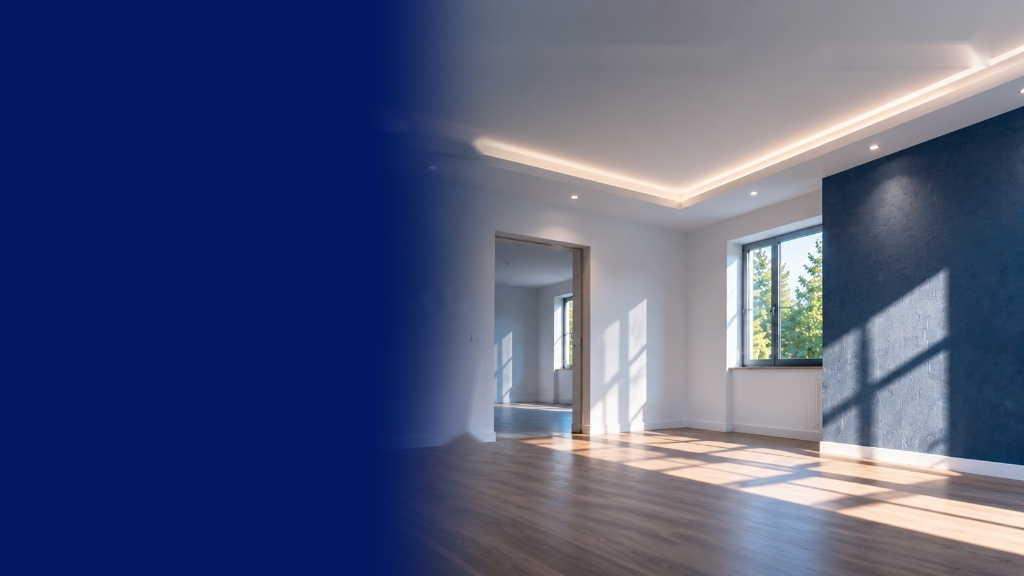
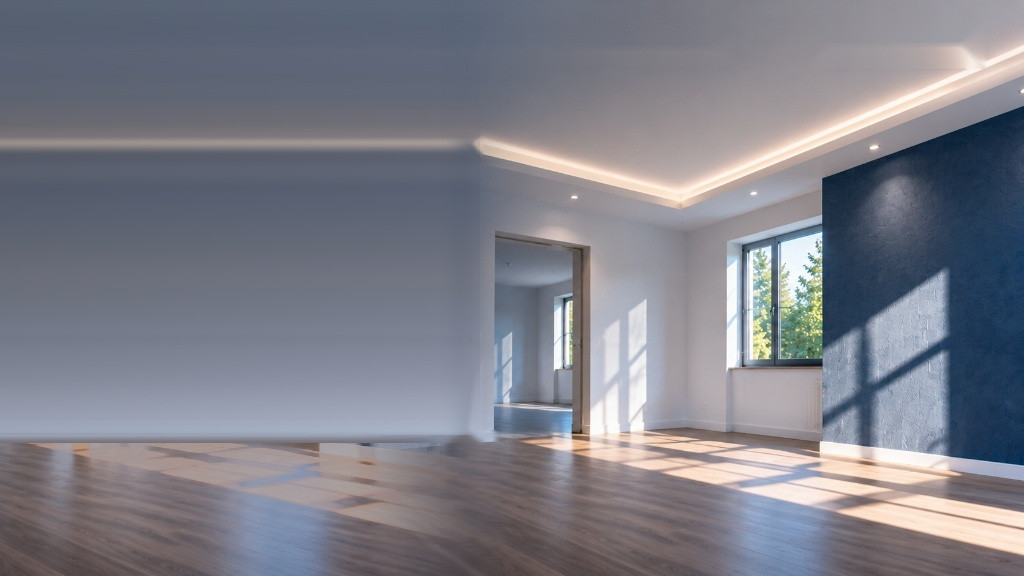
fix(design): remove red corner from footer, extend full gallery hero bg, and embed interactive Google Maps on contact page

diff --git a/src/components/ContactSection.tsx b/src/components/ContactSection.tsx
@@ -79,16 +79,6 @@ export const ContactSection: React.FC = () => {
               aria-hidden="true"
             />
 
-            {/* Bottom-Right Red Corner Slice */}
-            <div
-              className="absolute bottom-0 right-0 w-24 h-24 pointer-events-none select-none"
-              aria-hidden="true"
-            >
-              <svg viewBox="0 0 100 100" className="w-full h-full">
-                <polygon points="100,0 100,100 0,100" fill="#DE1110" />
-              </svg>
-            </div>
-
             {/* Contact Items List */}
             <div className="space-y-6 sm:space-y-7 relative z-10 my-auto">
               {/* Item 1: Adresse */}
@@ -351,7 +341,7 @@ export const ContactSection: React.FC = () => {
                     <span className="text-xs text-slate-600 leading-snug">
                       Ich habe die{' '}
                       <a
-                        href="#datenschutz"
+                        href="/datenschutz"
                         className="text-[#DE1110] font-semibold hover:underline"
                         onClick={(e) => e.stopPropagation()}
                       >
@@ -377,23 +367,27 @@ export const ContactSection: React.FC = () => {
         </div>
 
         {/* ================= BOTTOM MAP CARD ================= */}
-        <div className="relative w-full rounded-[24px] overflow-hidden border border-slate-200/90 shadow-sm bg-[#E8ECEF] h-[260px] sm:h-[300px] lg:h-[340px]">
-          {/* Crisp Berlin Map Background Image with original location marker */}
-          <img
-            src="/contact_map_exact_2x.png"
-            alt="Paveltus Berlin Standort Karte"
-            className="absolute inset-0 w-full h-full object-cover object-center pointer-events-none select-none"
+        <div className="relative w-full rounded-[24px] overflow-hidden border border-slate-200/90 shadow-sm bg-[#E8ECEF] h-[320px] sm:h-[380px] lg:h-[420px] group">
+          {/* Real Interactive Google Maps Embed with Paveltus Berlin Address */}
+          <iframe
+            title="Paveltus GmbH Standort Berlin Google Maps"
+            src="https://maps.google.com/maps?q=Wollankstra%C3%9Fe%20126%20a-b%2C%2013187%20Berlin&z=15&hl=de&t=m&output=embed&iwloc=near"
+            className="w-full h-full border-0"
             loading="lazy"
+            allowFullScreen
           />
 
-          {/* Interactive Floating Link matching exact badge location */}
+          {/* Quick Route Planning Overlay Badge */}
           <a
-            href="https://maps.google.com/?q=Berlin,+Deutschland"
+            href="https://maps.google.com/?q=Wollankstra%C3%9Fe+126+a-b,+13187+Berlin"
             target="_blank"
             rel="noopener noreferrer"
-            aria-label="In Google Maps ansehen"
-            className="absolute top-4 left-4 sm:top-5 sm:left-5 z-20 w-[180px] sm:w-[220px] h-[70px] rounded-2xl cursor-pointer"
-          />
+            className="absolute top-4 left-4 z-10 hidden sm:flex items-center gap-2.5 px-4 py-2 bg-white/95 backdrop-blur-md border border-slate-200/90 rounded-xl shadow-md text-xs font-semibold text-[#021861] hover:text-[#DE1110] transition-colors"
+          >
+            <span className="w-2 h-2 rounded-full bg-[#DE1110]" />
+            <span>Wollankstraße 126 a-b, 13187 Berlin</span>
+            <span className="text-slate-400 font-normal">| Route planen ↗</span>
+          </a>
         </div>
       </div>
     </section>

diff --git a/src/components/Footer.tsx b/src/components/Footer.tsx
@@ -66,17 +66,7 @@ export const Footer: React.FC = () => {
 
         {/* Left smooth fade to transparent */}
         <rect x="0" y="0" width="220" height="350" fill="url(#footerSkyFade)" />
-
-        {/* Vibrant Red Triangular Wedge at Bottom-Right Corner */}
-        <polygon points="500,240 500,350 400,350" fill="#DE1110" />
       </svg>
-
-      {/* Mobile Subtle Red Corner Accent */}
-      <div
-        className="lg:hidden absolute bottom-0 right-0 w-24 h-16 bg-[#DE1110] -z-0 pointer-events-none"
-        style={{ clipPath: 'polygon(100% 0, 100% 100%, 0 100%)' }}
-        aria-hidden="true"
-      />
 
       {/* Main Content Container */}
       <div className="relative z-10 max-w-[1400px] mx-auto px-6 sm:px-10 lg:px-12 xl:px-16">

diff --git a/src/components/GalleryHero.tsx b/src/components/GalleryHero.tsx
@@ -11,7 +11,7 @@ export const GalleryHero: React.FC = () => {
       <img
         src="/gallery_hero_bg.jpg"
         alt="Paveltus Galerie - Ausgewählte Renovierungs- und Sanierungsprojekte"
-        className="absolute inset-0 w-full h-full object-cover object-[right_center] pointer-events-none select-none"
+        className="absolute inset-0 w-full h-full object-cover object-center pointer-events-none select-none"
         loading="eager"
       />
 
